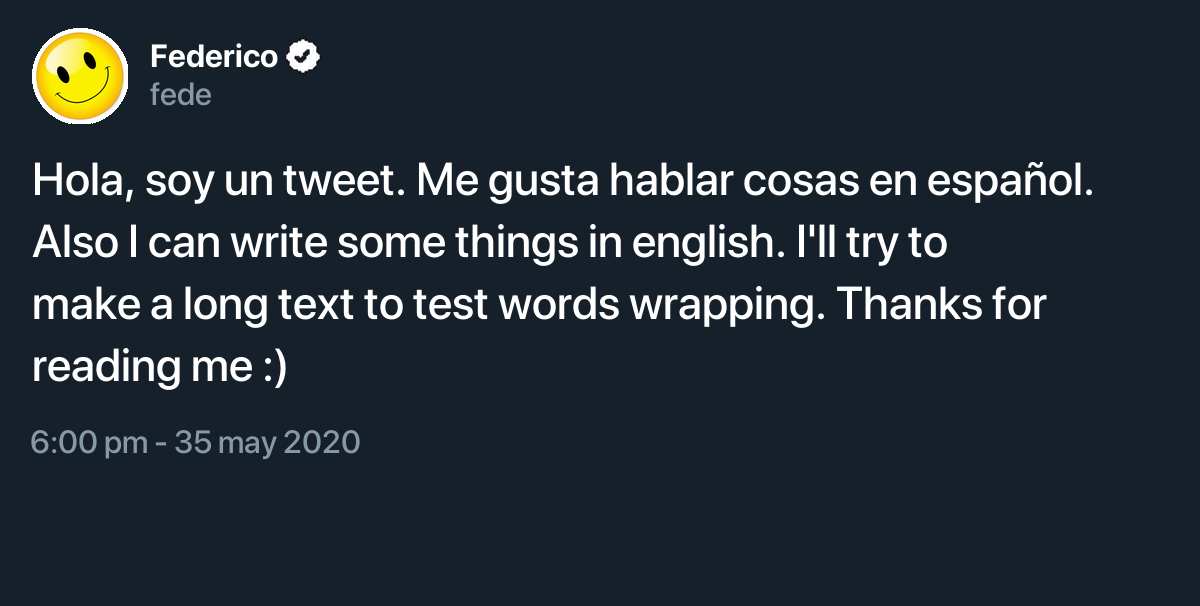
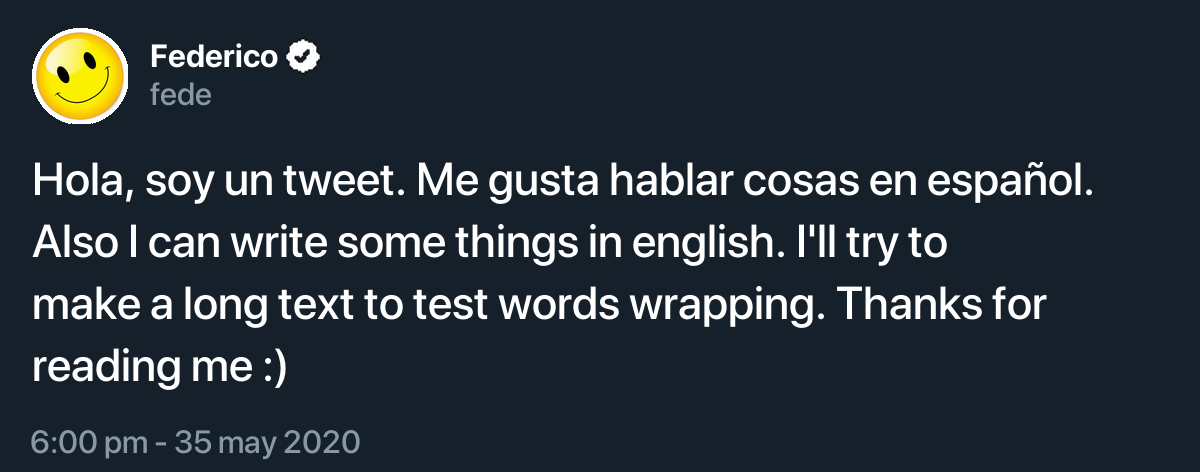
fix crop

Changed region(s): [[0.0, 0.0297, 0.925, 0.4449], [0.0, 0.4746, 0.8942, 0.8305], [0.0, 0.8898, 0.3083, 0.9788]]

diff --git a/generate-tweet-image.py b/generate-tweet-image.py
@@ -94,7 +94,7 @@ def download_and_insert_image(final_image, image_url):
 def crop_final_image(final_image, date_y):
 	final_height = date_y + 50
 	w, h = final_image.size
-	final_image = final_image.crop((0, 0, w, final_height))
+	return final_image.crop((0, 0, w, final_height))
 
 def save_image(final_image, destination):
 	final_image.save(destination)
@@ -107,7 +107,7 @@ def generate_tweet_image(twitter_name, twitter_account, text, date_text, image_u
 	y_text_position = generate_main_text_and_get_final_y(drawer, text)
 	date_y = generate_date_and_get_final_y(drawer, date_text, y_text_position)
 	download_and_insert_image(final_image, image_url)
-	crop_final_image(final_image, date_y)
+	final_image = crop_final_image(final_image, date_y)
 	save_image(final_image, destination)
 
 def capture_args():
